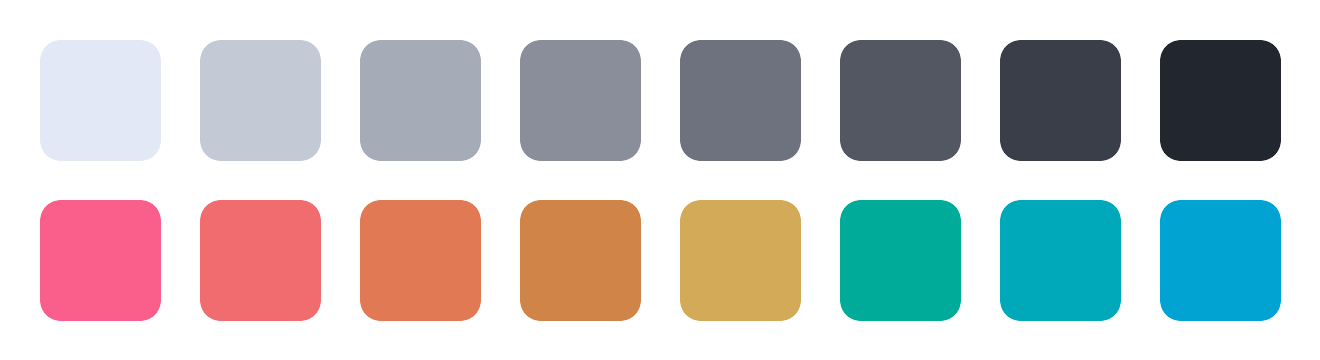
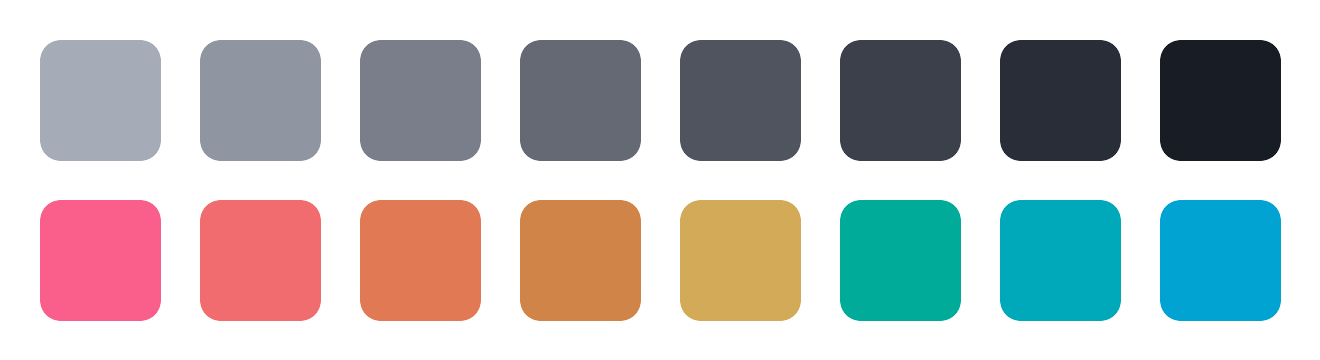
updating color generation with better range for high contrast

Changed region(s): [[0.0311, 0.0917, 0.6212, 0.4583]]

diff --git a/colorgenerator.js b/colorgenerator.js
@@ -1,9 +1,9 @@
-const chroma = require("chroma-js");
-const fs = require("fs");
-const gm = require("gm");
+const chroma = require('chroma-js');
+const fs = require('fs');
+const gm = require('gm');
 
 const h = 274, c = 7; // Master hue, chroma for mono colors
-const minL = 15, maxL = 92; // Mono luminance scale
+const minL = 10, maxL = 70; // Mono luminance scale
 const l = 62; // Master foreground luminance
 
 function map(x, inMin, inMax, outMin, outMax) {
@@ -11,35 +11,36 @@ function map(x, inMin, inMax, outMin, outMax) {
 }
 
 const colors = [
-    {name: "mono-1", value: [h, c, map(1, 8, 1, minL, maxL)]}, // BG
-    {name: "mono-2", value: [h, c, map(2, 8, 1, minL, maxL)]}, // BG - darker
-    {name: "mono-3", value: [h, c, map(3, 8, 1, minL, maxL)]}, // Mid gray 1
-    {name: "mono-4", value: [h, c, map(4, 8, 1, minL, maxL)]}, // Mid gray 2
-    {name: "mono-5", value: [h, c, map(5, 8, 1, minL, maxL)]}, // Mid gray 3
-    {name: "mono-6", value: [h, c, map(6, 8, 1, minL, maxL)]}, // Mid gray 4
-    {name: "mono-7", value: [h, c, map(7, 8, 1, minL, maxL)]}, // BG - lighter
-    {name: "mono-8", value: [h, c, map(8, 8, 1, minL, maxL)]}, // BG
-    {name: "hue-3",  value: [  7, 63,    l]}, // Magenta
-    {name: "hue-5",  value: [ 25, 56,    l]}, // Red
-    {name: "hue-7",  value: [ 46, 53,    l]}, // Red-orange
-    {name: "hue-6",  value: [ 62, 50,    l]}, // Orange
-    {name: "hue-4",  value: [ 84, 48, l+10]}, // Yellow
-    {name: "hue-8",  value: [184, 48,    l]}, // Green
-    {name: "hue-2",  value: [208, 44,    l]}, // Teal
-    {name: "hue-1",  value: [240, 40,    l]}, // Blue
+    {name: 'mono-1', value: [h, c, map(1, 8, 1, minL, maxL)]}, // BG
+    {name: 'mono-2', value: [h, c, map(2, 8, 1, minL, maxL)]}, // BG - darker
+    {name: 'mono-3', value: [h, c, map(3, 8, 1, minL, maxL)]}, // Mid gray 1
+    {name: 'mono-4', value: [h, c, map(4, 8, 1, minL, maxL)]}, // Mid gray 2
+    {name: 'mono-5', value: [h, c, map(5, 8, 1, minL, maxL)]}, // Mid gray 3
+    {name: 'mono-6', value: [h, c, map(6, 8, 1, minL, maxL)]}, // Mid gray 4
+    {name: 'mono-7', value: [h, c, map(7, 8, 1, minL, maxL)]}, // BG - lighter
+    {name: 'mono-8', value: [h, c, map(8, 8, 1, minL, maxL)]}, // BG
+    {name: 'hue-3',  value: [  7, 63,    l]}, // Magenta
+    {name: 'hue-5',  value: [ 25, 56,    l]}, // Red
+    {name: 'hue-7',  value: [ 46, 53,    l]}, // Red-orange
+    {name: 'hue-6',  value: [ 62, 50,    l]}, // Orange
+    {name: 'hue-4',  value: [ 84, 48, l+10]}, // Yellow
+    {name: 'hue-8',  value: [184, 48,    l]}, // Green
+    {name: 'hue-2',  value: [208, 44,    l]}, // Teal
+    {name: 'hue-1',  value: [240, 40,    l]}, // Blue
 ];
 
-var generated = "", image = gm(1320, 360, "#ffffff");
+var generated = '', image = gm(1320, 360, '#ffffff');
 
 for (var i = 0; i < colors.length; i++) {
 
     var hsl = chroma.hcl(colors[i].value).hsl(), hex = chroma.hcl(colors[i].value).hex();
-    generated += `@${colors[i].name}: hsl(${Math.round(hsl[0])}, ${Math.round(hsl[1] * 100)}%, ${Math.round(hsl[2] * 100)}%);\n`;
-    console.log(`${colors[i].name}: ${hex}`);
+    const hslStr = `hsl(${Math.round(hsl[0])}, ${Math.round(hsl[1] * 100)}%, ${Math.round(hsl[2] * 100)}%)`;
+    generated += `@${colors[i].name}: ${hslStr};\n`;
+    console.log(`${colors[i].name}:   ${hex}   hcl(${colors[i].value.join(', ')})`);
 
     var x = (i % 8) * 160, y = Math.floor(i / 8) * 160;
     image.fill(hex).drawRectangle(x + 40, y + 40, x + 160, y + 160, 20, 20);
 }
 
-fs.writeFile("colors-generated.less", generated, err => { if (err) console.log(err); });
-image.write("colors.png", err => { if (err) console.log(err); });
+fs.writeFile('colors-generated.less', generated, err => { if (err) console.log(err); });
+image.write('colors.png', err => { if (err) console.log(err); });
